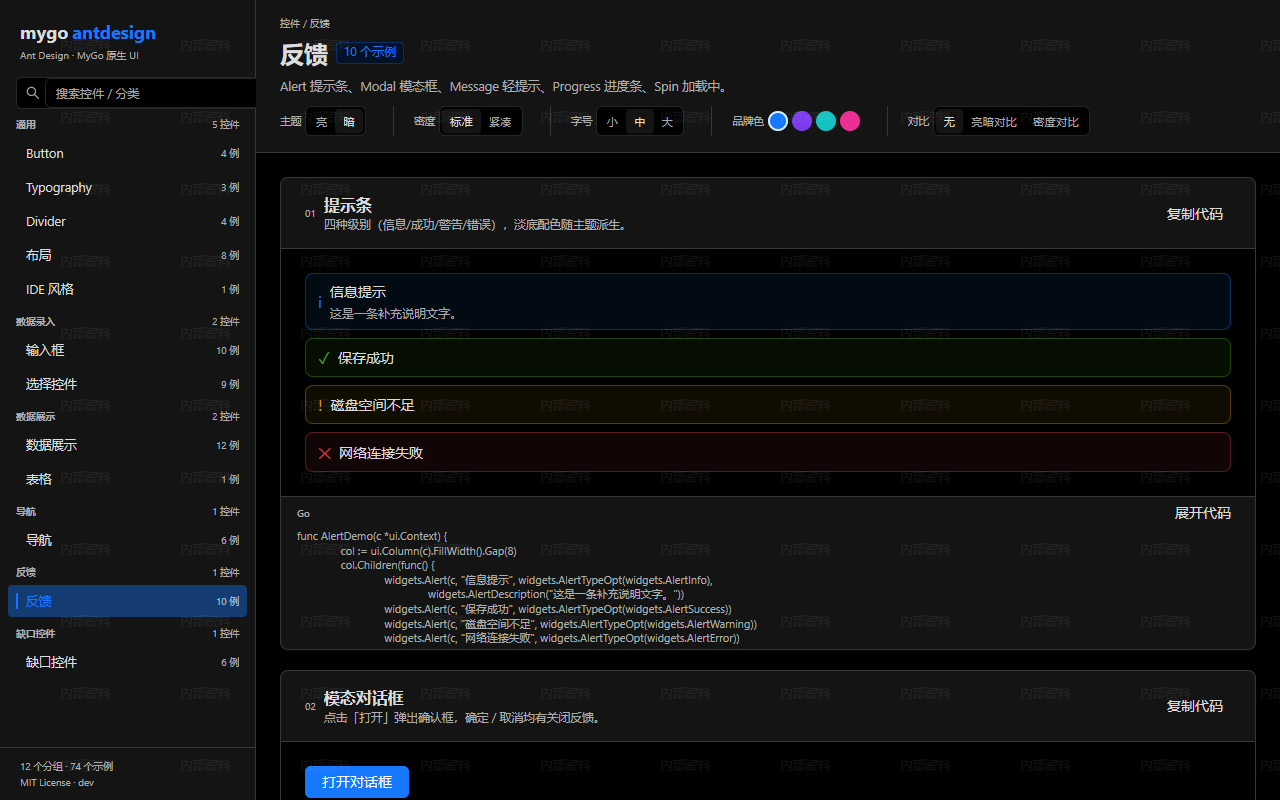
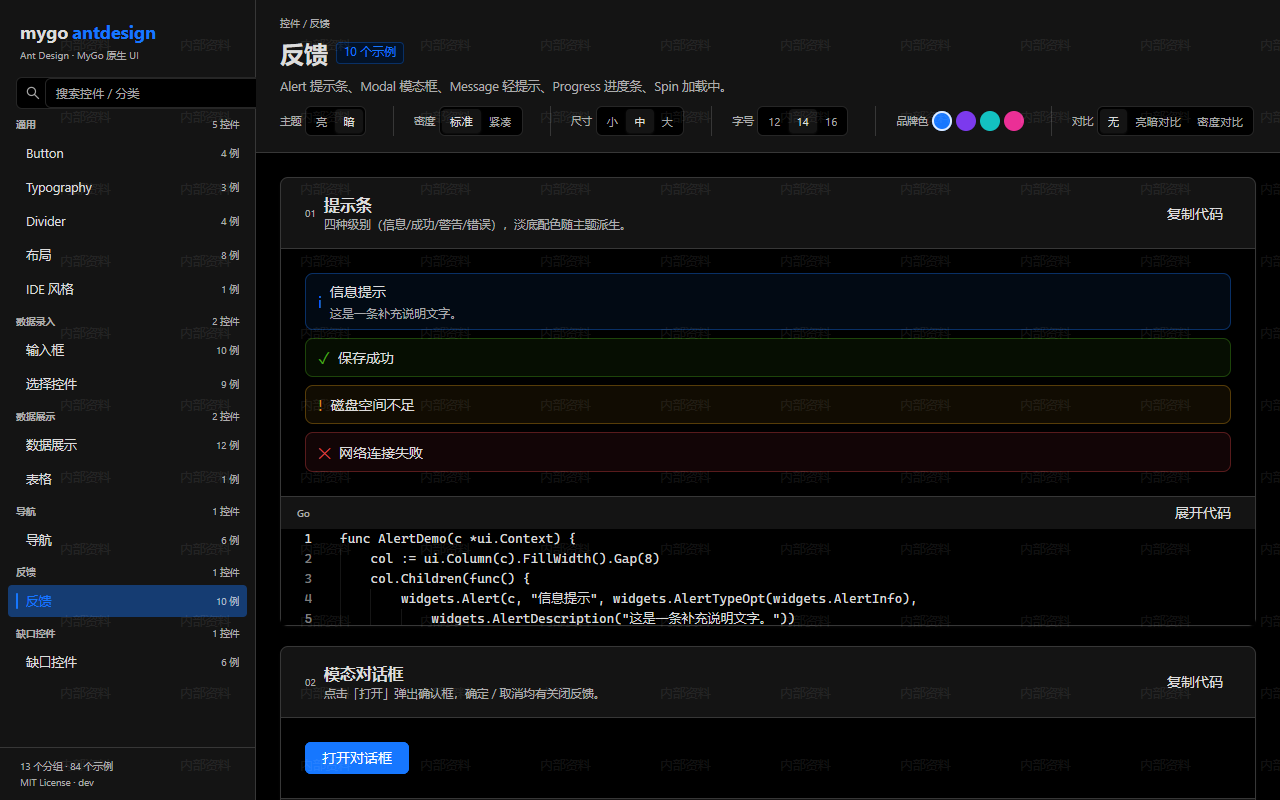
feat(gallery): 全局尺寸切换与 ui/editor 只读代码视图，主题补高对比预设
- Gallery 顶部新增「尺寸 小/中/大」：通过 WithSpacing/WithRadius/WithFontSize 统一缩放；字号档改为 12/14/16 避免重名
- 代码区从纯文本改为 ui/editor 只读视图（语法高亮 + 行号 + NoActiveLine），展开/收起与高度逻辑保留
- theme：新增 HighContrast() 高对比预设、WithTextInverse() 并桥接 InverseText；补充单测
- docs/01/03/04/06/07：按实际状态更新计划项、已知限制与过时描述；CHANGELOG 第十二批
- Gallery 截图与基线重新生成

diff --git a/gallery/app.go b/gallery/app.go
@@ -13,6 +13,7 @@ import (
 	"strings"
 
 	"github.com/egoist/mygo/ui"
+	"github.com/egoist/mygo/ui/editor"
 
 	"github.com/lishuangquan1987/mygo-antdesign/icon"
 	samples "github.com/lishuangquan1987/mygo-antdesign/samples"
@@ -51,18 +52,35 @@ type Gallery struct {
 	brand    string  // 品牌色 hex，"" 表示 antd 默认
 	compare  int     // compareNone / compareTheme / compareDensity
 	fontSize float32 // 0 表示跟随密度（标准 14 / 紧凑 13）
-	selected string  // 当前展示的控件名
-	query    string  // 侧栏搜索词
+	size     gallerySize
+	selected string // 当前展示的控件名
+	query    string // 侧栏搜索词
 }
+
+// gallerySize Gallery 的全局尺寸档（docs/06 §10：控件尺寸统一注入）。
+type gallerySize int
+
+const (
+	sizeMedium gallerySize = iota
+	sizeSmall
+	sizeLarge
+)
 
 // NewGallery 创建 Gallery。
 func NewGallery() *Gallery {
 	return &Gallery{density: theme.Comfortable, brand: brandColors[0].hex}
 }
 
-// fontScale 把字号选项并入主题（0 表示跟随密度）。
+// fontScale 把尺寸、字号与品牌色并入主题选项（0 表示跟随密度）。
 func (g *Gallery) fontScale(d theme.Density) []theme.Option {
 	opts := []theme.Option{theme.WithDensity(d)}
+	// 全局尺寸：在小/大档用主题度量整体缩放，弥补各控件尺寸选项无统一注入点。
+	switch g.size {
+	case sizeSmall:
+		opts = append(opts, theme.WithSpacing(3), theme.WithRadius(4), theme.WithFontSize(12))
+	case sizeLarge:
+		opts = append(opts, theme.WithSpacing(5), theme.WithRadius(8), theme.WithFontSize(16))
+	}
 	if g.fontSize > 0 {
 		opts = append(opts, theme.WithFontSize(g.fontSize))
 	}
@@ -383,11 +401,19 @@ func (g *Gallery) header(c *ui.Context) {
 				)
 			})
 			widgets.VerticalDivider(c)
+			toolGroup(c, "尺寸", func() {
+				segmented(c,
+					segItem{label: "小", on: g.size == sizeSmall, onClick: func() { g.size = sizeSmall }},
+					segItem{label: "中", on: g.size == sizeMedium, onClick: func() { g.size = sizeMedium }},
+					segItem{label: "大", on: g.size == sizeLarge, onClick: func() { g.size = sizeLarge }},
+				)
+			})
+			widgets.VerticalDivider(c)
 			toolGroup(c, "字号", func() {
 				segmented(c,
-					segItem{label: "小", on: g.fontSize == 12, onClick: func() { g.fontSize = 12 }},
-					segItem{label: "中", on: g.fontSize == 0, onClick: func() { g.fontSize = 0 }},
-					segItem{label: "大", on: g.fontSize == 16, onClick: func() { g.fontSize = 16 }},
+					segItem{label: "12", on: g.fontSize == 12, onClick: func() { g.fontSize = 12 }},
+					segItem{label: "14", on: g.fontSize == 0, onClick: func() { g.fontSize = 0 }},
+					segItem{label: "16", on: g.fontSize == 16, onClick: func() { g.fontSize = 16 }},
 				)
 			})
 			widgets.VerticalDivider(c)
@@ -532,16 +558,29 @@ func (g *Gallery) sampleCard(c *ui.Context, index int, s samples.Sample) {
 					*expanded = !*expanded
 				}
 			})
-			// 代码正文：用 Scroll 承载，超出部分滚动而不是溢出卡片。
-			body := ui.Scroll(c).FillWidth()
+			// 代码正文：ui/editor 只读代码视图（语法高亮 + 行号），
+			// 用 Scroll 承载，超出部分滚动而不是溢出卡片。
+			body := ui.Scroll(c).FillWidth().Background(t.Background)
 			if !*expanded {
 				body.MaxHeight(t.Space(30))
 			}
 			body.Children(func() {
-				ui.Text(c, s.Code).
-					TextColor(t.TextMuted).
-					FontSize(t.Rem(0.78)).
-					Padding(0, t.Space(4), t.Space(3), t.Space(4))
+				st := ui.Local(card, "gallery.codeed."+s.Title, func() editor.State {
+					return editor.State{
+						Buffer:       editor.NewBuffer(s.Code),
+						ReadOnly:     true,
+						NoActiveLine: true,
+					}
+				})
+				lines := strings.Count(s.Code, "\n") + 1
+				h := t.Space(2.2)*float32(lines) + t.Space(2)
+				if h < t.Space(8) {
+					h = t.Space(8)
+				}
+				if h > t.Space(40) {
+					h = t.Space(40)
+				}
+				widgets.CodeEditor(c, st).FillWidth().Height(h)
 			})
 		})
 	})

diff --git a/theme/theme_test.go b/theme/theme_test.go
@@ -178,3 +178,34 @@ func TestWithFontSize(t *testing.T) {
 		t.Errorf("FontSize = %v, want 16", got.FontSize)
 	}
 }
+
+func TestHighContrastPreset(t *testing.T) {
+	tk := HighContrast()
+	if tk.Text != black {
+		t.Errorf("高对比 Text = %v, want 纯黑", tk.Text)
+	}
+	if tk.Border != ui.Hex("#8c8c8c") {
+		t.Errorf("高对比 Border = %v, want #8c8c8c", tk.Border)
+	}
+	if tk.Density != Comfortable || tk.FontSize != 14 {
+		t.Errorf("高对比默认度量被破坏：%v/%v", tk.Density, tk.FontSize)
+	}
+	// Option 在预设之后套用。
+	compact := HighContrast(WithDensity(Compact))
+	if compact.Density != Compact || compact.Spacing != 3 {
+		t.Errorf("HighContrast 未套用密度选项：%v/%v", compact.Density, compact.Spacing)
+	}
+}
+
+func TestTextInverseBridge(t *testing.T) {
+	tk := Light(WithTextInverse(ui.RGB(255, 255, 255)))
+	th := tk.toTheme()
+	if th.InverseText != ui.RGB(255, 255, 255) {
+		t.Errorf("InverseText = %v, want 白色", th.InverseText)
+	}
+	// 零值保持 MyGo 默认反色行为。
+	def := Light().toTheme()
+	if def.InverseText != ui.LightTheme().InverseText {
+		t.Errorf("零值 TextInverse 不应改写 InverseText：%v", def.InverseText)
+	}
+}

diff --git a/gallery/screenshot_test.go b/gallery/screenshot_test.go
@@ -17,6 +17,7 @@ import (
 	"github.com/lishuangquan1987/mygo-antdesign/samples/ide"
 	"github.com/lishuangquan1987/mygo-antdesign/samples/input"
 	"github.com/lishuangquan1987/mygo-antdesign/samples/layout"
+	"github.com/lishuangquan1987/mygo-antdesign/samples/native"
 	"github.com/lishuangquan1987/mygo-antdesign/samples/nav"
 	"github.com/lishuangquan1987/mygo-antdesign/samples/selectdemo"
 	"github.com/lishuangquan1987/mygo-antdesign/samples/table"
@@ -42,6 +43,7 @@ func registerAll() {
 	samples.Register(nav.Demo())
 	samples.Register(extrademo.Demo())
 	samples.Register(ide.Demo())
+	samples.Register(native.Demo())
 }
 
 // savePNG 用无窗口 Tester 渲染一帧并写 PNG。

diff --git a/theme/token.go b/theme/token.go
@@ -102,6 +102,11 @@ func WithRadius(px float32) Option {
 // 默认关闭，以保证 Ant Design 品牌色忠实呈现（见 ADR 0002）。
 func WithFollowSystem() Option { return func(t *AntToken) { t.followSystem = true } }
 
+// WithTextInverse 设置反色背景上的文字色（Tooltip/Toast）。
+func WithTextInverse(c ui.Color) Option {
+	return func(t *AntToken) { t.TextInverse = c }
+}
+
 // WithSpacing 直接覆盖 Spacing 单位（高级用法；常规请用 WithDensity）。
 func WithSpacing(px float32) Option {
 	return func(t *AntToken) { t.Spacing = px }

diff --git a/gallery/app_test.go b/gallery/app_test.go
@@ -81,8 +81,8 @@ func TestGalleryInteractions(t *testing.T) {
 	g := newTestGallery()
 	tt := ui.NewTester(g.View, 1280, 800)
 
-	// 切换暗色 / 紧凑 / 对比：无 panic、无持续帧请求。
-	for _, label := range []string{"暗", "紧凑", "亮暗对比", "标准", "亮"} {
+	// 切换暗色 / 紧凑 / 对比 / 全局尺寸：无 panic、无持续帧请求。
+	for _, label := range []string{"暗", "紧凑", "亮暗对比", "标准", "亮", "大", "中"} {
 		if err := tt.Click(label); err != nil {
 			t.Fatalf("点击 %q 失败: %v", label, err)
 		}

diff --git a/theme/preset.go b/theme/preset.go
@@ -73,3 +73,16 @@ func apply(t *AntToken, opts []Option) {
 		o(t)
 	}
 }
+
+// HighContrast 返回高对比预设：亮色底 + 纯黑正文 + 加深的次要文字与描边，
+// 用于无障碍/强光场景（docs/04）。密度/品牌色等 Option 在预设之后套用。
+func HighContrast(opts ...Option) *AntToken {
+	t := Light()
+	t.Text = black
+	t.TextSecondary = ui.Hex("#4d4d4d")
+	t.Border = ui.Hex("#8c8c8c")
+	t.BgLayout = ui.Hex("#f0f0f0")
+	t.BgContainer = white
+	apply(t, opts)
+	return t
+}

diff --git a/theme/bridge.go b/theme/bridge.go
@@ -19,6 +19,11 @@ func (t *AntToken) toTheme() *ui.Theme {
 	th.Success = t.Success
 	th.Text = t.Text
 	th.TextMuted = t.TextSecondary
+	// TextInverse 是 Tooltip/Toast 上的文字；零值保持 MyGo 默认
+	// （Inverse = Text、InverseText = Background）。
+	if t.TextInverse != (ui.Color{}) {
+		th.InverseText = t.TextInverse
+	}
 	th.Background = t.BgLayout
 	th.Surface = t.BgContainer
 	th.Border = t.Border

diff --git a/docs/03-gap-widgets.md b/docs/03-gap-widgets.md
@@ -29,12 +29,12 @@
 | Pagination | `ant.Pagination` | widgets | `Row` + `ButtonBase` 页码 + 窗口折叠 | 中 | `OnPageChange`；当前固定每页 10 条 |
 | Steps | `ant.Steps` | widgets | `Row` + 圆点 + 连接线 | 中 | 完成/进行/等待三态 |
 | Message / Notification | `ant.Message` / `MessageTypeTyped` / `Notify` | widgets | `c.Toast` / `c.AddToast` | 低 | 复用 MyGo 底部 toast viewport，不是独立浮层 |
-| Modal.confirm / Popconfirm | `ant.Confirm` | widgets | `ui.AlertDialog` | 低 | 无返回值，只回调 `onOk`；Popconfirm 仍未实现 |
+| Modal.confirm / Popconfirm | `ant.Confirm` / `ant.Popconfirm` | widgets | `ui.AlertDialog` / `ui.Popover` + `ButtonBase` | 低 | `Confirm` 只回调 `onOk`；`Popconfirm` 气泡确认已实现 |
 | Divider（虚线/带文字/竖线） | `ant.Divider` / `VerticalDivider` / `DashedVerticalDivider` | widgets | `Box` + `BorderWidth` | 低 | 实线可直接用原生 `ui.Divider` |
 | Tree | `extra.Tree` | extra | `ui.Tree` + `TreeItem` 递归 | 中 | 声明式节点 + 展开状态 + `OnTreeNodeSelect` |
 | Upload | `extra.Upload` | extra | 系统文件对话框 + `ui.Drop` / `DragOver` + 列表 | 高 | 桌面语义；Tester 无窗口环境不能点 |
 | Transfer | `extra.Transfer` | extra | 两列 `Column` + 行 `ButtonBase` + 中间移动按钮 | 中 | 右列选中 Key 由调用方持有 |
-| Carousel | `extra.Carousel` | extra | 当前页容器 + `ButtonBase` 指示点 | 中 | 直接切页，暂无滑入动画；`el.AnimateTo` 可后补 |
+| Carousel | `extra.Carousel` | extra | 当前页容器 + `ButtonBase` 指示点 | 中 | 直接切页，暂无滑入动画（可后续用 `el.AnimateTo` 补） |
 | QRCode | `extra.QRCode` | extra | `skip2/go-qrcode` → `ui.NewBitmap` → `ui.Image` | 中 | 码色随主题（前景=Text，背景=Surface） |
 | Cascader | `extra.Cascader` | extra | `ui.Popover` + 多列 `Column` | 高 | 逐级下钻，叶子写回路径 |
 | TreeSelect | `extra.TreeSelect` | extra | `ui.Popover` + `extra.Tree` | 高 | 选中后收起 |
@@ -48,12 +48,12 @@
 | Tooltip | `ant.Tooltip` | widgets | `ui.TooltipBase` 反色气泡 | 低 | 悬停 0.6s / 键盘聚焦立即显示，Esc 关闭 |
 | Popconfirm | `ant.Popconfirm` | widgets | `ui.Popover` + `ButtonBase` | 中 | 触发器点击弹出，确认/取消回调 |
 | Collapse | `ant.Collapse` | widgets | `ButtonBase` 头部 + 图标箭头 + 内容区 | 中 | 手风琴模式、默认展开、按 Key 记忆 |
-| Form | `ant.Form` / `FormItem` / `FormGroup` | widgets | `ui.Form` / `Field` / `Fieldset` | 低 | 标签列对齐、必填标记、帮助/错误文字 |
+| Form | `ant.Form` / `FormItem` / `FormGroup` | widgets | `ui.Form` 语义 + 自绘纵向标签 | 低 | 纵向标签 + 红色必填星号 + 24px 项距 + 帮助/错误文字 |
 | List | `ant.List` | widgets | `ui.List`（虚拟滚动）+ 行内边距与分隔线 | 低 | 行选中/多选由 `ListState` 提供 |
 | Sidebar / Menu | `ant.Sidebar` / `SidebarItem` / `SidebarItemWithIcon` / `SidebarSection` | widgets | `ui.Sidebar` 系列 | 低 | 分区 + 条目 + 选中态，键盘可导航 |
 | Splitter | `ant.Splitter` / `SplitterVertical` / `SplitterPercent` / `SplitterVerticalPercent` | widgets | `ui.Split` 系列 | 低 | 分隔条可拖拽，尺寸/百分比两种模式 |
 | AutoComplete | `ant.AutoComplete` | widgets | `ui.Autocomplete` | 低 | 保留键入内容 + 候选建议 |
-| Drawer | `ant.Drawer` | widgets | `ui.DialogBase` + 右侧锚定 + `Scroll` 内容区 | 中 | 遮罩/标题栏/关闭按钮，点遮罩或 Esc 关闭 |
+| Drawer | `ant.Drawer` | widgets | `ui.DialogBase` + 右侧锚定 + `Scroll` 内容区 | 中 | 遮罩/标题栏/关闭按钮，点遮罩或 Esc 关闭；打开 220ms 滑入 |
 | Image | `ant.ImageEl` | widgets | `ui.Image` + `ButtonBase` + `ui.Modal` | 中 | 可指定宽度，点击放大预览 |
 | ColorPicker | `ant.ColorPicker` / `ColorPanel` | widgets | `ui.ColorWell` / `ui.ColorPicker` | 低 | 色块 + 展开面板 / 常驻面板 |
 | Progress（环形） | `ant.ProgressCircle` | widgets | `ui.Box.Draw` + `ui.Path` 圆弧 | 中 | 中心百分比，成功/错误状态色 |

diff --git a/docs/04-theme-system.md b/docs/04-theme-system.md
@@ -51,7 +51,7 @@ type AntToken struct {
 
 	Text          ui.Color // colorText
 	TextSecondary ui.Color // colorTextSecondary
-	TextInverse   ui.Color // 预留：当前桥接未使用
+	TextInverse   ui.Color // 反色文字（Tooltip/Toast）；桥接写入 ui.Theme.InverseText
 
 	BgContainer ui.Color // colorBgContainer（按钮/输入框底色）
 	BgLayout    ui.Color // colorBgLayout（页面底色）
@@ -99,7 +99,7 @@ func WithSpacing(px float32) Option   // 高级用法，常规请用 WithDensity
 | `colorInfo` | 信息 | — | MyGo 无独立 Info 槽；`AntToken.Info` 当前不参与桥接，需要时用主色 |
 | `colorTextSelectionBg` | 文本选中 | `Selection` | `WithAccent` 生成（亮：主色 25% 透明） |
 | `colorPrimaryBorder` / focus | 焦点环 | `Focus` + `FocusRingWidth/Offset` | `WithAccent` 生成 `Focus`；环宽/偏移沿用基底主题 |
-| `colorBgElevated`（弹层） | Tooltip/Toast 反色 | `Inverse` / `InverseText` | ⚠ MyGo 语义是「反色」，与 antd 浮起色不同；当前预设未使用 |
+| `colorBgElevated`（弹层） | Tooltip/Toast 反色 | `Inverse` / `InverseText` | ⚠ MyGo 语义是「反色」，与 antd 浮起色不同；`WithTextInverse` 可显式覆盖反色文字 |
 | `colorFillAlter`（弱填充） | 表头/斑马纹 | — | 无独立槽位，控件内用 `Surface` + `Mix`/`Alpha` 表达 |
 | 非活动窗口主色 | — | `InactiveAccent` | 未设置，沿用 MyGo 默认派生 |
 
@@ -159,6 +159,7 @@ theme.Sub(c *ui.Context, t *AntToken) ui.Element // 内部 ui.Themed(c, t.toThem
 | --- | --- | --- |
 | `theme.Light()` | antd 默认亮色 | 主色 `#1677ff`，圆角 6，Spacing 4，字号 14，容器白、页面 `#f5f5f5` |
 | `theme.Dark()` | antd 暗色算法近似 | 主色 `#1668dc`，容器 `#141414`、页面 `#000000`，文字白 85% |
+| `theme.HighContrast()` | 高对比亮色（无障碍） | 纯黑正文、`#4d4d4d` 次要文字、`#8c8c8c` 描边、`#f0f0f0` 页面底；可继续叠加密度/品牌色 |
 | `theme.Light(theme.WithDensity(theme.Compact))` | 亮色 + 紧凑 | Spacing 3、圆角 4、字号 13 |
 | `theme.Dark(theme.WithDensity(theme.Compact))` | 暗色 + 紧凑 | 同上 |
 | 自定义品牌色 | `WithPrimary(...)` | 任意 `ui.Color`，色阶自动派生 |
@@ -174,7 +175,7 @@ theme.Sub(c *ui.Context, t *AntToken) ui.Element // 内部 ui.Themed(c, t.toThem
 
 ## 未实现 / TODO
 
-- 跟随系统强调色与无障碍偏好（`WithFollowSystem` Option 尚未提供）。
-- 系统亮暗切换的自动跟随（需 MyGo 的 dark mode 通知）。
-- `TextInverse` 参与桥接（当前保留字段但未写入）。
-- 高对比预设（`PresetHighContrast`）。
+- **系统亮暗切换的自动跟随**：MyGo `ui` 尚未暴露系统外观通知/API（上游限制，本库无法完成；见 ADR 0002）。
+- 跟随系统强调色与无障碍偏好：已提供 `theme.WithFollowSystem()`（默认关闭，避免覆盖 antd 品牌色），如需默认跟随由应用显式开启。
+- `TextInverse` 桥接：✅ 已实现（`theme.WithTextInverse`）。
+- 高对比预设：✅ 已实现（`theme.HighContrast()`）。

diff --git a/docs/01-feasibility.md b/docs/01-feasibility.md
@@ -86,14 +86,14 @@ Ant Design 有而 MyGo 无的控件（分页、级联选择、穿梭框、上传
 | 维度 | 现状 |
 | --- | --- |
 | 主题层 | ✅ `AntToken` + `Light()` / `Dark()` + `Apply` / `Sub`，单测覆盖映射与密度 |
-| 换肤控件 | ✅ `widgets/`（包 `ant`）99 个构造函数，覆盖 MyGo 绝大多数原生控件与 Base 原语 |
+| 换肤控件 | ✅ `widgets/`（包 `ant`）137 个构造函数，覆盖 MyGo 绝大多数原生控件与 Base 原语 |
 | 缺口控件 | ✅ `extra/` 7 个（Tree / Upload / Transfer / Carousel / QRCode / Cascader / TreeSelect）+ `widgets/` 内自建（Pagination / Steps / Alert / Card / Tag / Badge / Empty / Result / Skeleton / Statistic / Descriptions / Timeline / Spin 等） |
 | 图标 | ✅ 44 个 antd outlined 常量 + `icon.Icon` |
 | 示例 | ◐ 13 个示例分组 / 84 个示例片段；按全覆盖矩阵继续补齐 |
-| Gallery | ✅ 侧栏 + 卡片流 + 主题/密度/品牌色切换 + 亮暗并排对比；搜索/分类/全局尺寸为待办 |
+| Gallery | ✅ 侧栏 + 搜索 + 分类目录 + 卡片流 + 主题/密度/字号/全局尺寸/品牌色切换 + 亮暗/密度并排对比 + `ui/editor` 只读代码视图 |
 | 视觉回归 | ✅ 3 张 Gallery 级 + 324 张逐示例截图基线（4 组合 × 81 示例，`samples/golden/`，按平台生效） |
 | 静态检查 | ✅ `go run ./internal/check` 禁裸颜色/裸间距 |
-| 版本 | v0.1.0 已打 tag；v0.2 已推送待打 tag；v0.3 开发中 |
+| 版本 | v0.3.1 tag 已推送（含最新 Release 工作流），Release 待创建 |
 
 > 详细任务状态见 [06 开发计划 §5](06-development-plan.md#5-wbs-详细任务分解与状态)。
 
@@ -127,9 +127,9 @@ Ant Design 有而 MyGo 无的控件（分页、级联选择、穿梭框、上传
 ## 里程碑建议（含状态）
 
 - **M1**：主题层 + 基础控件 20 个，Gallery 可预览 → 验证「换肤 + 切换主题」闭环。✅ 已完成
-- **M2**：数据展示与反馈控件，覆盖常见后台/工具类应用 80% 场景。◐ 主体完成，Form/Collapse/Tooltip/Sidebar/Drawer 未做
+- **M2**：数据展示与反馈控件，覆盖常见后台/工具类应用 80% 场景。✅ 完成（Form/Collapse/Tooltip/Sidebar/Drawer 等已在 v0.3 落地）
 - **M3**：紧凑密度全控件适配，出上位机 / IDE 风格示例。✅ 密度可切换、IDE 风格示例已落地（`samples/ide`）
-- **M4**：缺口控件补齐，发布 v0.1.0。◐ v0.1.0 已发布；P2/P3 缺口控件仍在推进
+- **M4**：缺口控件补齐，发布 v0.1.0。✅ v0.1.0–v0.3 已发布，P1/P2/P3 缺口控件全部落地；v0.3.1 tag 已推送，Release 待创建
 
 ## 建议
 
